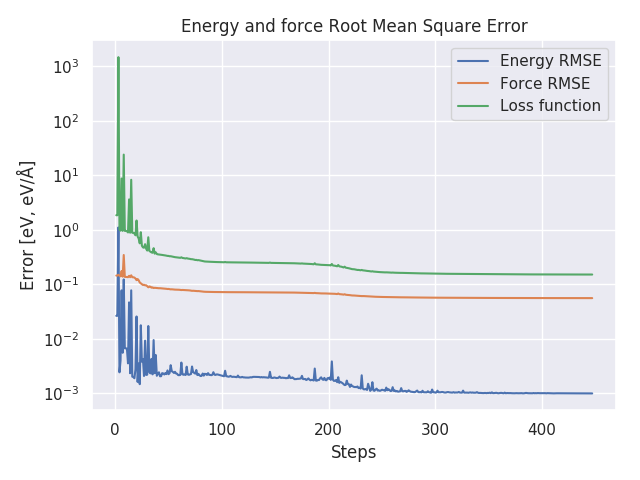
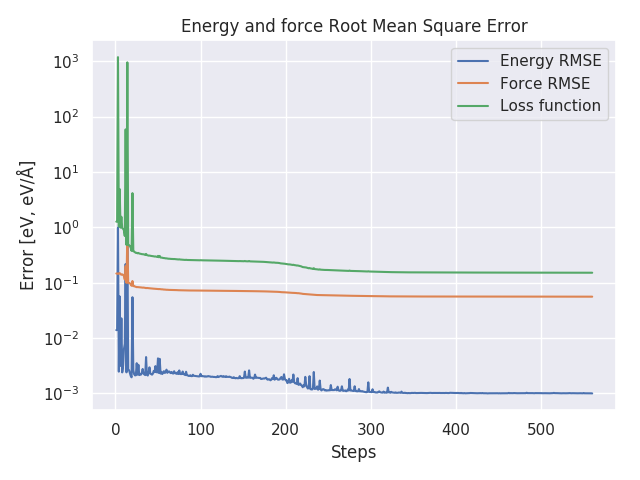
Time for a renovation

diff --git a/tensorflow/lennard_jones.py b/tensorflow/lennard_jones.py
@@ -39,6 +39,60 @@ def lennard_jones_data():
     return (x_train, y_train), (x_test, y_test)
 
 
+def plot_network_and_derivative(x_test, y_test, model):
+    lj_derivative = lambda r: -24 * (2 * r ** (-13) - r ** (-7))
+
+    x_plot = x_test.copy()
+    y_plot = y_test.copy()
+    y_model = model(x_plot)
+    dy_model = -model.derivative(tf.convert_to_tensor(x_plot))
+
+    x_plot = np.array(x_plot).reshape(-1)
+    y_plot = np.array(y_plot).reshape(-1)
+    y_model = np.array(y_model).reshape(-1)
+    dy_model = np.array(dy_model).reshape(-1)
+
+    ind = np.argsort(x_plot)
+    x_plot = x_plot[ind]
+    y_plot = y_plot[ind]
+    y_model = y_model[ind]
+    dy_model = dy_model[ind]
+
+    dy_plot = -lj_derivative(x_plot)
+
+    plt.plot(x_plot, y_plot)
+    plt.plot(x_plot, y_model)
+    plt.title("Neural network potential comparison")
+    plt.xlabel("Radial distance r")
+    plt.ylabel("Potential energy V(r)")
+    plt.legend(["Lennard-Jones", "Neural Network"])
+    plt.savefig("potential_comparison.png")
+    plt.clf()
+
+    plt.plot(x_plot, abs(y_model - y_plot))
+    plt.title("Relative error of neural network")
+    plt.xlabel("Radial distance r")
+    plt.ylabel("Relative error")
+    plt.savefig("potential_relative_error.png")
+    plt.clf()
+
+    plt.plot(x_plot, dy_plot)
+    plt.plot(x_plot, dy_model)
+    plt.title("Derivative of neural network potential")
+    plt.xlabel("Radial distance r")
+    plt.ylabel("Force dV(r)")
+    plt.legend(["Lennard-Jones", "Neural Network"])
+    plt.savefig("force_comparison.png")
+    plt.clf()
+
+    plt.plot(x_plot, abs(dy_model - dy_plot))
+    plt.title("Relative error of neural network force")
+    plt.xlabel("Radial distance r")
+    plt.ylabel("Relative error")
+    plt.savefig("force_relative_error.png")
+    plt.clf()
+
+
 (x_train, y_train), (x_test, y_test) = lennard_jones_data()
 
 train_ds = (
@@ -85,28 +139,4 @@ for epoch in range(epochs):
     template = "Epoch {}, Loss: {}, Test Loss: {}"
     print(template.format(epoch + 1, train_loss.result(), test_loss.result()))
 
-lj_derivative = lambda r: -24 * (2 * r ** (-13) - r ** (-7))
-
-x_plot = x_test.copy()
-y_plot = y_test.copy()
-y_model = model(x_plot)
-dy_model = model.derivative(tf.convert_to_tensor(x_plot))
-
-x_plot = np.array(x_plot).reshape(-1)
-y_plot = np.array(y_plot).reshape(-1)
-y_model = np.array(y_model).reshape(-1)
-dy_model = np.array(dy_model).reshape(-1)
-
-ind = np.argsort(x_plot)
-x_plot = x_plot[ind]
-y_plot = y_plot[ind]
-y_model = y_model[ind]
-dy_model = dy_model[ind]
-
-plt.plot(x_plot, y_plot)
-plt.plot(x_plot, y_model)
-plt.show()
-
-plt.plot(x_plot, -lj_derivative(x_plot))
-plt.plot(x_plot, -dy_model)
-plt.show()
+plot_network_and_derivative(x_test, y_test, model)

diff --git a/tools/analysis.py b/tools/analysis.py
@@ -11,17 +11,17 @@ from amp.model import LossFunction
 
 class Analyzer:
     def __init__(self):
-        self.n_train = int(1e4)
-        self.n_test = int(1e3)
+        self.n_train = int(1e5)
+        self.n_test = int(1e4)
         self.save_interval = 25
         self.size = (3, 3, 3)
-        self.temp = 750
+        self.temp = 1500
 
-    def train_amp(self, calc, system, train_filename):
+    def train_amp(self, calc, system, G, train_filename):
         xyz_filename = "".join((train_filename.split(".")[0], ".xyz"))
-        convergence = {"energy_rmse": 1e-3, "force_rmse": 7.5e-2}
+        convergence = {"energy_rmse": 1e-6}
         energy_coefficient = 1.0
-        force_coefficient = 0.04
+        force_coefficient = None
         hidden_layers = (10, 10, 10)
         activation = "tanh"
 
@@ -33,7 +33,7 @@ class Analyzer:
         print("Training from traj: {}".format(train_filename))
 
         traj = ase.io.read(train_filename, ":")
-        descriptor = Gaussian(fortran=True)
+        descriptor = Gaussian(Gs=G, fortran=True)
         loss_function = LossFunction(
             convergence=convergence,
             energy_coefficient=energy_coefficient,
@@ -82,27 +82,29 @@ class Analyzer:
 
     def calculate_msd(self, traj_file):
         traj = ase.io.read(traj_file, ":")
-        init_pos = traj[0].get_positions()
+        steps = np.arange(len(traj))
         msd = np.zeros(len(traj))
-        for atoms in traj:
+        init_pos = traj[0].get_positions()
+        for i, atoms in enumerate(traj[1:]):
             pos = atoms.get_positions()
             disp = pos - init_pos
-            msd += np.linalg.norm(disp, axis=1).sum()
+            msd[i + 1] = msd[i - 1] + np.linalg.norm(disp, axis=1).sum()
 
-        return msd
+        return steps, msd
 
     def calculate_energy_diff(self, test_traj_file, amp_traj_file):
         test_traj = ase.io.read(test_traj_file, ":")
         amp_traj = ase.io.read(amp_traj_file, ":")
 
         num_images = len(test_traj)
+        steps = np.arange(num_images)
         energy_exact = np.zeros(num_images)
         energy_amp = np.zeros(num_images)
         for i in range(num_images):
             energy_exact[i] = test_traj[i].get_potential_energy()
             energy_amp[i] = amp_traj[i].get_potential_energy()
 
-        return energy_exact, energy_amp
+        return steps, energy_exact, energy_amp
 
     def calculate_force_diff(self, test_traj_file, amp_traj_file):
         test_traj = ase.io.read(test_traj_file, ":")

diff --git a/tools/plot.py b/tools/plot.py
@@ -17,7 +17,11 @@ class Plotter:
         loss = convergence["costfxns"]
 
         plt.semilogy(steps, energy_rmse, label="Energy RMSE")
-        plt.semilogy(steps, force_rmse, label="Force RMSE")
+        if len(force_rmse) > 0:
+            plt.semilogy(steps, force_rmse, label="Force RMSE")
+            plt.ylabel("Error [eV, eV/Å]")
+        else:
+            plt.ylabel("Error [eV]")
         plt.semilogy(steps, loss, label="Loss function")
 
         plt.title("Energy and force Root Mean Square Error")
@@ -35,5 +39,27 @@ class Plotter:
         plt.legend(legend)
         plt.xlabel("Radial distance [Å]")
         plt.ylabel("RDF")
+        plt.savefig(plot_file)
+        plt.clf()
+
+    def plot_msd(self, plot_file, legend, steps, *msds):
+        for msd in msds:
+            plt.plot(steps, msd)
+
+        plt.title("Mean Squared Displacement")
+        plt.legend(legend)
+        plt.xlabel("Steps")
+        plt.ylabel("MSD [Å]")
+        plt.savefig(plot_file)
+        plt.clf()
+
+    def plot_energy_diff(self, plot_file, steps, energy_exact, energy_amp):
+        plt.plot(steps, energy_exact)
+        plt.plot(steps, energy_amp)
+
+        plt.title("Potential energy as a function of time")
+        plt.legend(["Exact", "AMP"])
+        plt.xlabel("Steps")
+        plt.ylabel("Potential energy [eV]")
         plt.savefig(plot_file)
         plt.clf()

diff --git a/lennard-jones/main.py b/lennard-jones/main.py
@@ -2,6 +2,7 @@ import sys
 
 sys.path.insert(0, "../tools")
 
+import os
 from ase.calculators.lj import LennardJones
 from analysis import Analyzer
 from plot import Plotter
@@ -16,10 +17,14 @@ if __name__ == "__main__":
     log_file = "amp-log.txt"
     conv_file = "convergence.png"
     rdf_file = "rdf.png"
+    msd_file = "msd.png"
+    energy_file = "energy.png"
+    G = None
 
     anl = Analyzer()
     plt = Plotter()
-    anl.train_amp(calc, system, train_filename)
+    if not os.path.exists("amp.amp"):
+        anl.train_amp(calc, system, G, train_filename)
     plt.plot_rmse(log_file, conv_file)
     anl.test_amp(calc, system, test_filename, amp_test_filename)
 
@@ -27,3 +32,12 @@ if __name__ == "__main__":
     x, amp_rdf = anl.calculate_rdf(amp_test_filename)
     legend = ["Lennard-Jones", "AMP"]
     plt.plot_rdf(rdf_file, legend, x, rdf, amp_rdf)
+
+    steps, msd = anl.calculate_msd(test_filename)
+    steps, amp_msd = anl.calculate_msd(amp_test_filename)
+    plt.plot_msd(msd_file, legend, steps, msd, amp_msd)
+
+    steps, energy_exact, energy_amp = anl.calculate_energy_diff(
+        test_filename, amp_test_filename
+    )
+    plt.plot_energy_diff(energy_file, steps, energy_exact, energy_amp)

diff --git a/stillinger-weber/main.py b/stillinger-weber/main.py
@@ -2,6 +2,7 @@ import sys
 
 sys.path.insert(0, "../tools")
 
+import os
 from asap3 import OpenKIMcalculator
 from analysis import Analyzer
 from plot import Plotter
@@ -16,10 +17,14 @@ if __name__ == "__main__":
     log_file = "amp-log.txt"
     conv_file = "convergence.png"
     rdf_file = "rdf.png"
+    msd_file = "msd.png"
+    energy_file = "energy.png"
+    G = None
 
     anl = Analyzer()
     plt = Plotter()
-    anl.train_amp(calc, system, train_filename)
+    if not os.path.exists("amp.amp"):
+        anl.train_amp(calc, system, G, train_filename)
     plt.plot_rmse(log_file, conv_file)
     anl.test_amp(calc, system, test_filename, amp_test_filename)
 
@@ -27,3 +32,12 @@ if __name__ == "__main__":
     x, amp_rdf = anl.calculate_rdf(amp_test_filename)
     legend = ["Stillinger-Weber", "AMP"]
     plt.plot_rdf(rdf_file, legend, x, rdf, amp_rdf)
+
+    steps, msd = anl.calculate_msd(test_filename)
+    steps, amp_msd = anl.calculate_msd(amp_test_filename)
+    plt.plot_msd(msd_file, legend, steps, msd, amp_msd)
+
+    steps, energy_exact, energy_amp = anl.calculate_energy_diff(
+        test_filename, amp_test_filename
+    )
+    plt.plot_energy_diff(energy_file, steps, energy_exact, energy_amp)
